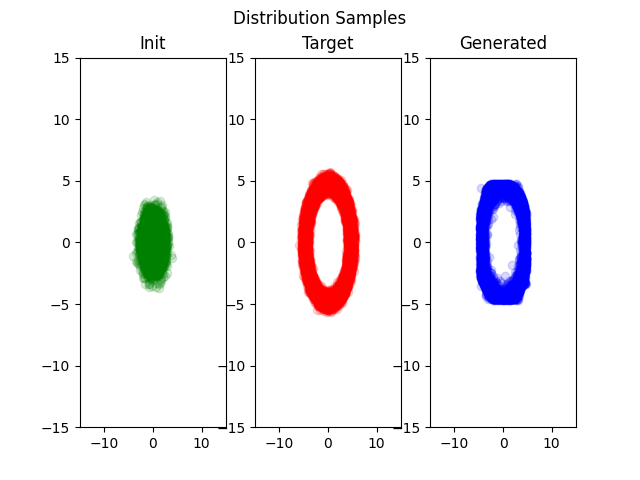
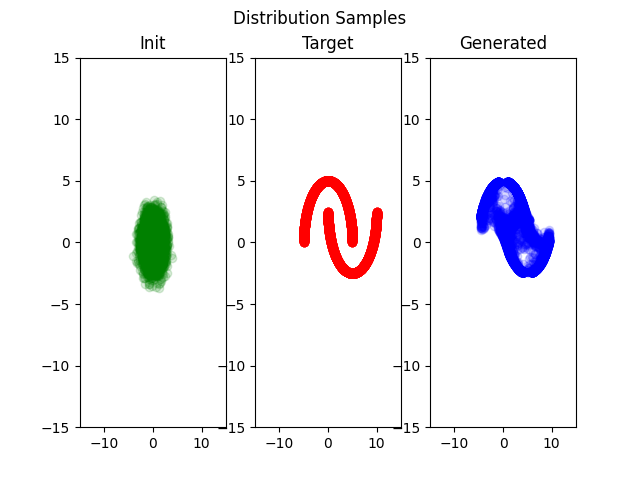
TT-RecFlow with blobs data with K=3

Changed region(s): [[0.4375, 0.3438, 0.625, 0.6562], [0.7188, 0.3438, 0.875, 0.6562]]

diff --git a/tt_rectified_flow/tt_rectified_flow.py b/tt_rectified_flow/tt_rectified_flow.py
@@ -1,16 +1,19 @@
-"""TODO
+"""
+TODO
     1. Make dist figure 3 cols :
         pi0 pi1 and pi1_gen             DONE
     2. Use GeomLoss Sinkhorn            DONE
     3. Use Swissroll 2D data            DONE
-    4. Use Circles Data                 In-Progress
+    4. Use Circles Data                 DONE
+    5. Use Blob Data                    DONE
+    6. Use Half Moon Data               In-Progress
 """
 import random
 
 import torch
 import numpy as np
 import matplotlib.pyplot as plt
-from sklearn.datasets import make_swiss_roll, make_circles
+from sklearn.datasets import make_swiss_roll, make_circles, make_blobs, make_moons
 from torch.distributions import Categorical
 from torch.distributions.multivariate_normal import MultivariateNormal
 from torch.distributions.mixture_same_family import MixtureSameFamily
@@ -75,7 +78,7 @@ def filter_tensor(x: torch.Tensor):
 
 
 def sample_ode(z0: torch.Tensor, N: int = None) -> torch.Tensor:
-    ### NOTE: Use Euler method to sample from the learned flow
+    # NOTE: Use Euler method to sample from the learned flow
     dt = 1.0 / N
     traj = torch.empty((N + 1,) + z0.shape)
     # batch_size = z0.shape[0]
@@ -220,7 +223,9 @@ if __name__ == '__main__':
     # 2 ) https://github.com/MaximeVandegar/Papers-in-100-Lines-of-Code/blob/main/Deep_Unsupervised_Learning_using_Nonequilibrium_Thermodynamics/diffusion_models.py#L12
     # 3 ) https://github.com/mbaddar1/Diffusion/blob/281e453d66d413976bc069c75d736c6df3c4a9de/diffusion/ddpm/main.py#L50
     # samples_1 = torch.tensor(make_swiss_roll(n_samples=n_samples, noise=1e-1)[0][:, [0, 2]] / 2.0)
-    samples_1 = torch.tensor(make_circles(n_samples=n_samples, shuffle=True, factor=0.9,noise=0.05)[0]*5.0)
+    # samples_1 = torch.tensor(make_circles(n_samples=n_samples, shuffle=True, factor=0.9,noise=0.05)[0]*5.0)
+    # samples_1 = torch.tensor(make_blobs(n_samples=n_samples, n_features=2)[0])
+    samples_1 = torch.tensor(make_moons(n_samples=n_samples, shuffle=True)[0]*5.0)
     # plot the samples
 
     plt.figure(figsize=(4, 4))
@@ -288,8 +293,8 @@ if __name__ == '__main__':
 
     print(f"Starting tt fitting")
     # TT parameters
-    tt_rank = 7
-    degree = 10
+    tt_rank = 8
+    degree = 20
     degrees = [degree] * (d + 1)  # hotfix by charles that made the GMM work
     ranks = [1] + [tt_rank] * d + [1]
 
@@ -391,5 +396,26 @@ Rank        Deg         Sinkhorn
 7           10          0.74 *
 -----------------------------------------
 iii)
-
+Model : TT-Recflow with legendre poly 
+Dataset : Blobs (no. centres = 3)
+Opt : Fixed Rank TT-ALS
+Numerically
+Ref sinkhorn divergence = 0.01
+Rank        Deg         Sinkhorn
+8           20          11.2
+8           25          10.11
+8           30          9.4 *
+8           35          10.42
+8           40          13.77
+iv) 
+Model : TT-Recflow with legendre poly 
+Dataset : Moons 
+Opt : Fixed Rank TT-ALS
+Numerically
+Ref sinkhorn divergence = 0.005
+Rank        Deg         Sinkhorn
+6           20          3.99 *
+7           10          4.12
+7           20          4.12
+8           20          4.17
 """
